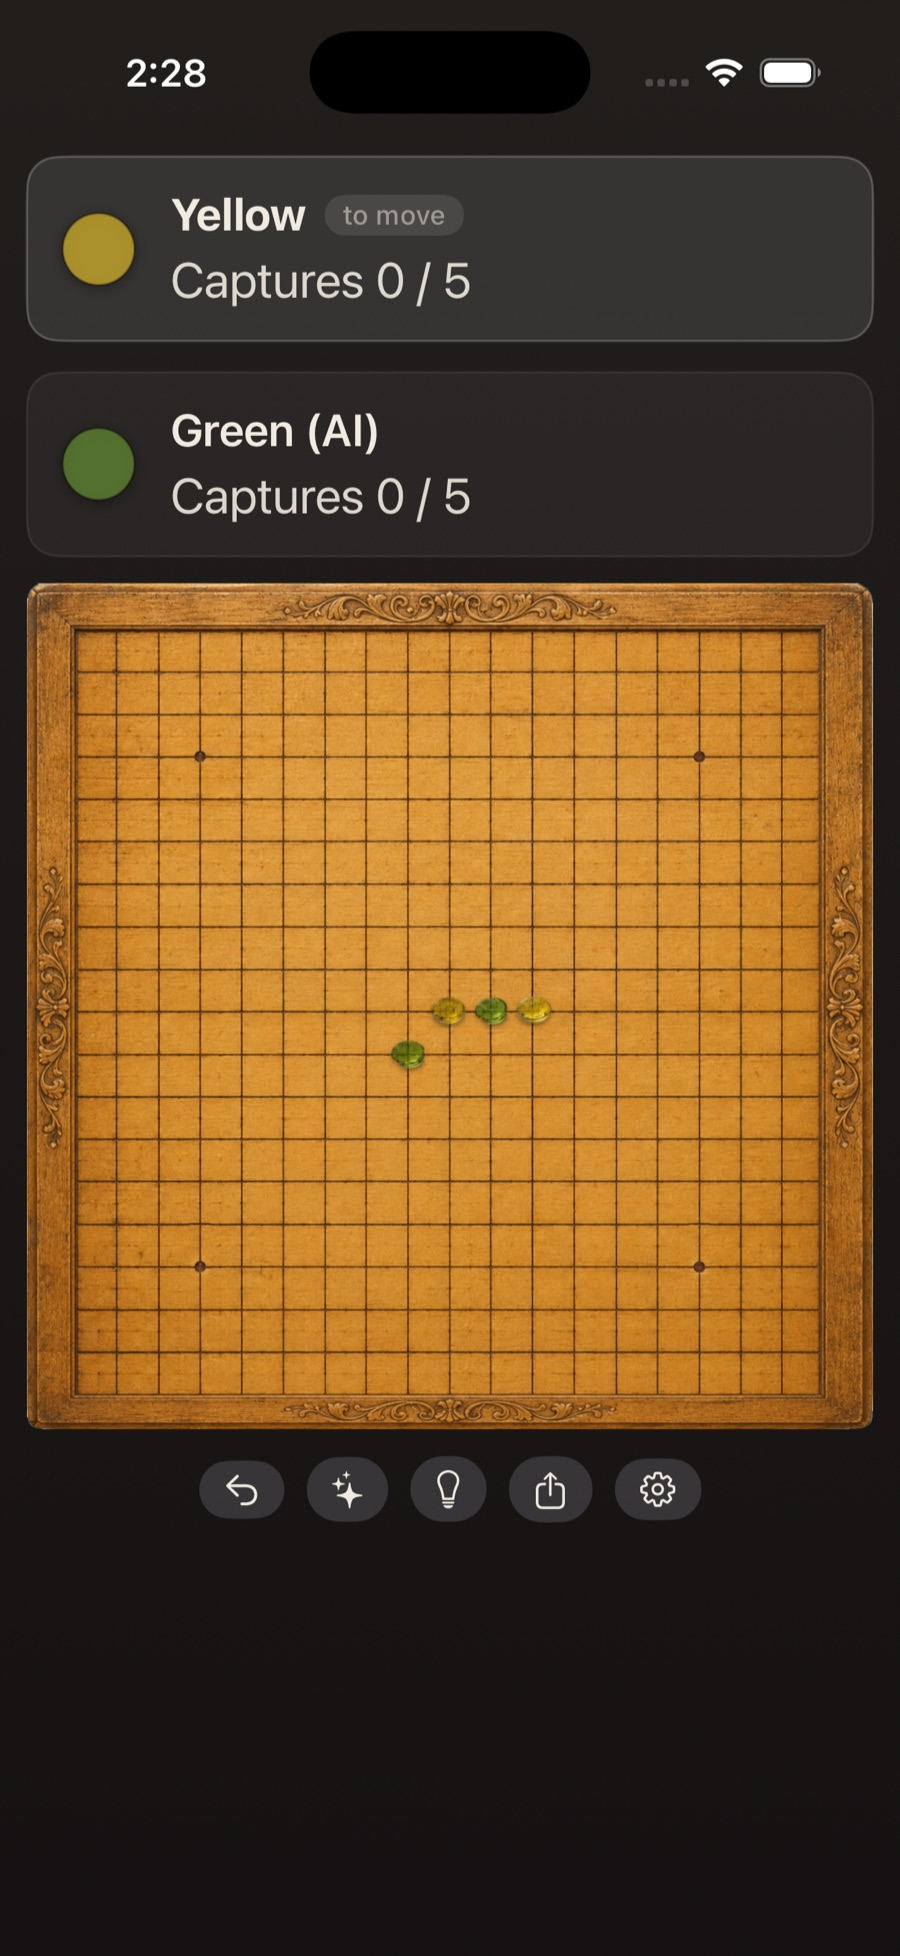
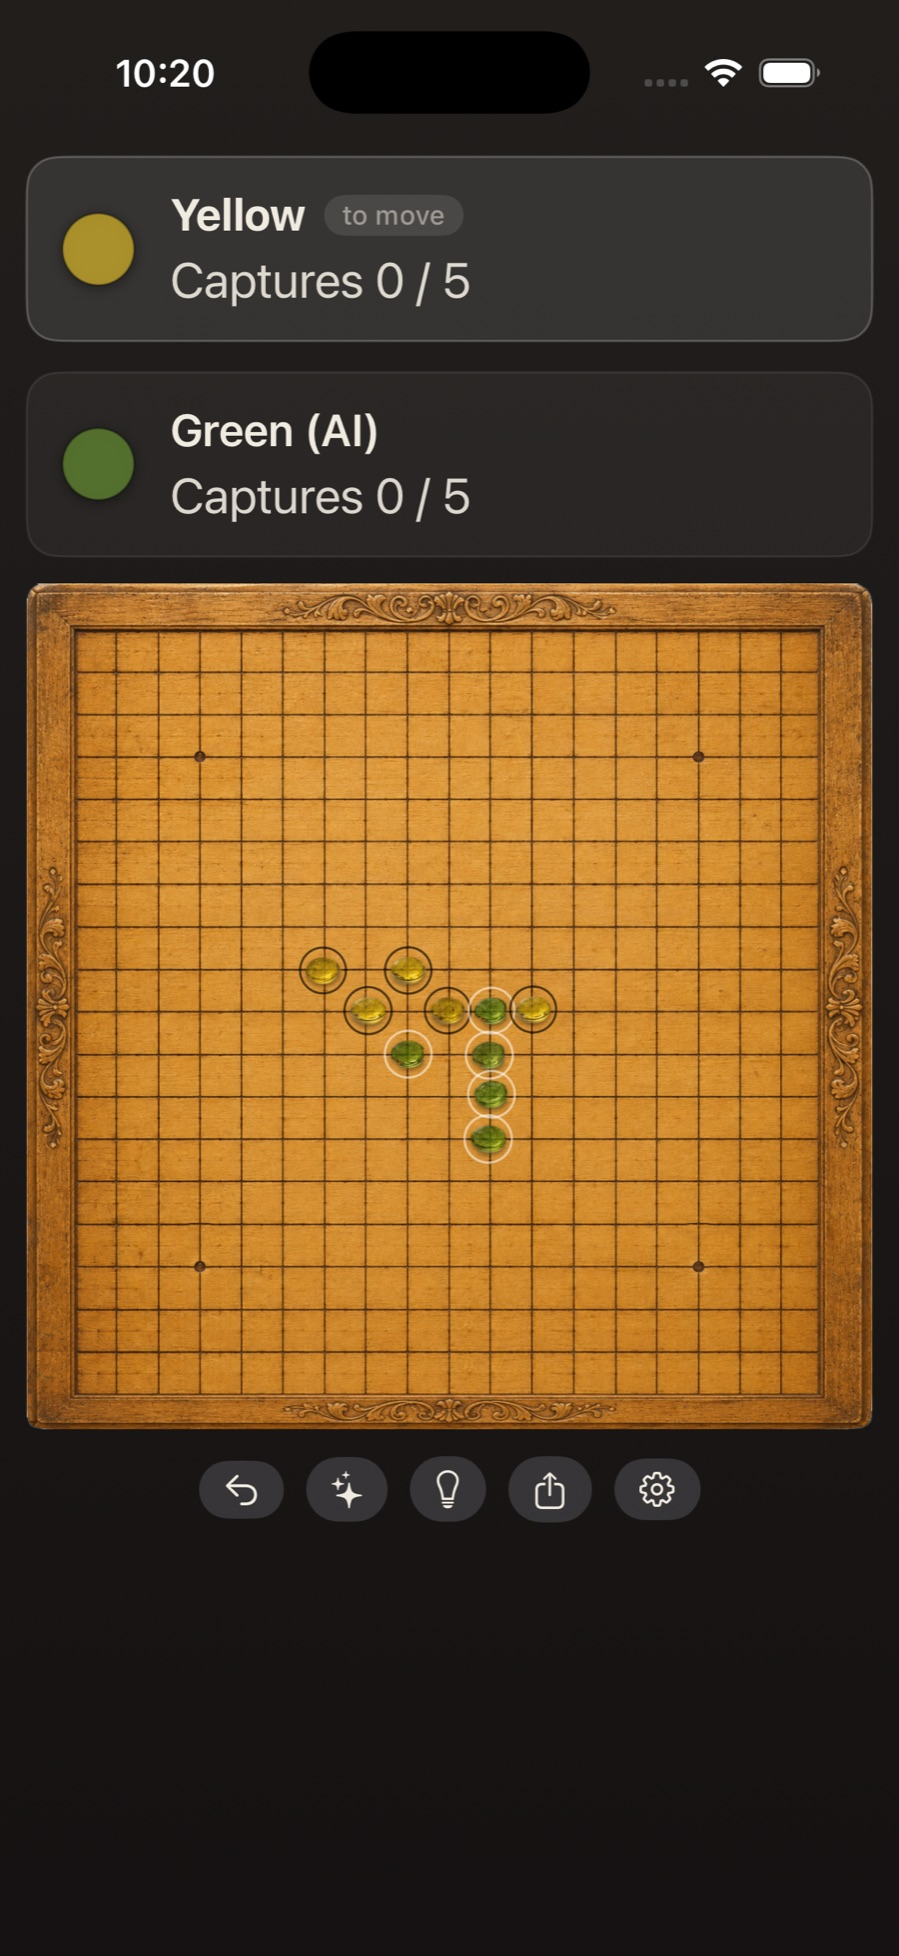
Manual screenshots reshot with High Contrast Stones for colorblind readers
A pente.org reader with red-green colorblindness reported the
yellow and green glass indistinguishable in the manual's practice
screenshot. A deuteranopia simulation confirmed it across every
glass-stone image: the player distinction was hue alone. All five
manual screenshots are reshot with High Contrast Stones on (black
ring on yellow, white on green; verified under the same simulation)
and the manual now tells colorblind readers about the setting.
Alts trued to the new on-screen text, which also showcases the
current builds: the lost-position hint note and the past-tense
walk-back reading.

Changed region(s): [[0.3426, 0.4678, 0.6229, 0.5925], [0.1246, 0.0312, 0.2492, 0.0624]]

diff --git a/manual.html b/manual.html
@@ -120,9 +120,10 @@
 
   <h2 id="game-screen">The game screen</h2>
   <figure>
-    <img src="screenshots/manual-game.jpg" alt="The main game screen: two score cards above the carved wooden board, a row of round control buttons below" loading="lazy">
+    <img src="screenshots/manual-game.jpg?v=2" alt="The main game screen: two score cards above the carved wooden board, a row of round control buttons below" loading="lazy">
     <figcaption>The whole game on one screen: score cards, board, controls.</figcaption>
   </figure>
+  <p>A note on the pictures: every screenshot in this manual has <strong>High Contrast Stones</strong> turned on (Settings, Board). It rings every yellow stone in black and every green stone in white, so the two sides stay distinct even without color vision. If yellow and green ever look alike to you on the board, that switch is yours.</p>
   <p>Each player has a card showing their captures out of the five pairs that win, and a small badge marks whose turn it is. Tap any intersection to place a stone. The row of buttons under the board (beside it, on a bigger screen):</p>
   <ul>
     <li><strong>Undo</strong> takes back your last move — and against the computer it takes back the reply too, so you can rethink without replaying.</li>
@@ -142,8 +143,8 @@
 
   <h2 id="hints">Hints that explain themselves</h2>
   <figure>
-    <img src="screenshots/manual-hint.jpg" alt="The game screen with a dashed golden ring on the suggested square and a caption reading: Nothing is forced here. This builds shape and keeps the initiative." loading="lazy">
-    <figcaption>With Explain Hints on, the ring gets a reason.</figcaption>
+    <img src="screenshots/manual-hint.jpg?v=2" alt="The game screen with a dashed golden ring on the suggested square and a caption reading: Nothing on the board answers the opponent's win. No block, no capture. All that remains is to make them find it." loading="lazy">
+    <figcaption>With Explain Hints on, the ring gets a reason. Here an honest one: the position is already lost.</figcaption>
   </figure>
   <p>The Hint button always rings a square. Turn on <strong>Explain Hints</strong> — on the Study tab of Settings — and each hint also says <em>why</em>, in one line of the language the companion book teaches: this wins outright, this blocks a loss, this answers an open three, this threatens a capture, or nothing is forced and this builds shape. It's off by default; the ring alone is there for players who just want a nudge.</p>
 
@@ -160,7 +161,7 @@
       <figcaption>Every finished game, kept.</figcaption>
     </figure>
     <figure>
-      <img src="screenshots/manual-review.jpg?v=2" alt="The walk-back: a mid-game position with a ring on the reviewed move, the reading 'The opponent could win on the very next move; this takes that away', the Artisan's suggestion, and a move slider" loading="lazy">
+      <img src="screenshots/manual-review.jpg?v=3" alt="The walk-back: a mid-game position with a ring on the reviewed move, the reading 'The opponent could have won on the very next move; this took that away', the Artisan's suggestion, and a move slider" loading="lazy">
       <figcaption>Move 20 of 37, with the position's reading and the Artisan's opinion.</figcaption>
     </figure>
   </div>
@@ -169,11 +170,11 @@
   <h2 id="practice">The Practice Board</h2>
   <div class="pair">
     <figure>
-      <img src="screenshots/manual-practice.jpg?v=2" alt="The Practice Board in Play mode with a book problem loaded, a dashed ring on the winning square, and the caption: The Artisan would play J10. This wins the game outright." loading="lazy">
+      <img src="screenshots/manual-practice.jpg?v=3" alt="The Practice Board in Play mode with a book problem loaded, a dashed ring on the winning square, and the caption: The Artisan would play J10. This wins the game outright." loading="lazy">
       <figcaption>A book problem on a real board, with the Artisan's explained answer.</figcaption>
     </figure>
     <figure>
-      <img src="screenshots/manual-problems.jpg" alt="The problems menu listing the book's Chapter 15 problems, the solved one marked with a checkmark" loading="lazy">
+      <img src="screenshots/manual-problems.jpg?v=2" alt="The problems menu listing the book's Chapter 15 problems, the solved one marked with a checkmark" loading="lazy">
       <figcaption>The book's fifteen problems. Solved ones wear a mark.</figcaption>
     </figure>
   </div>
